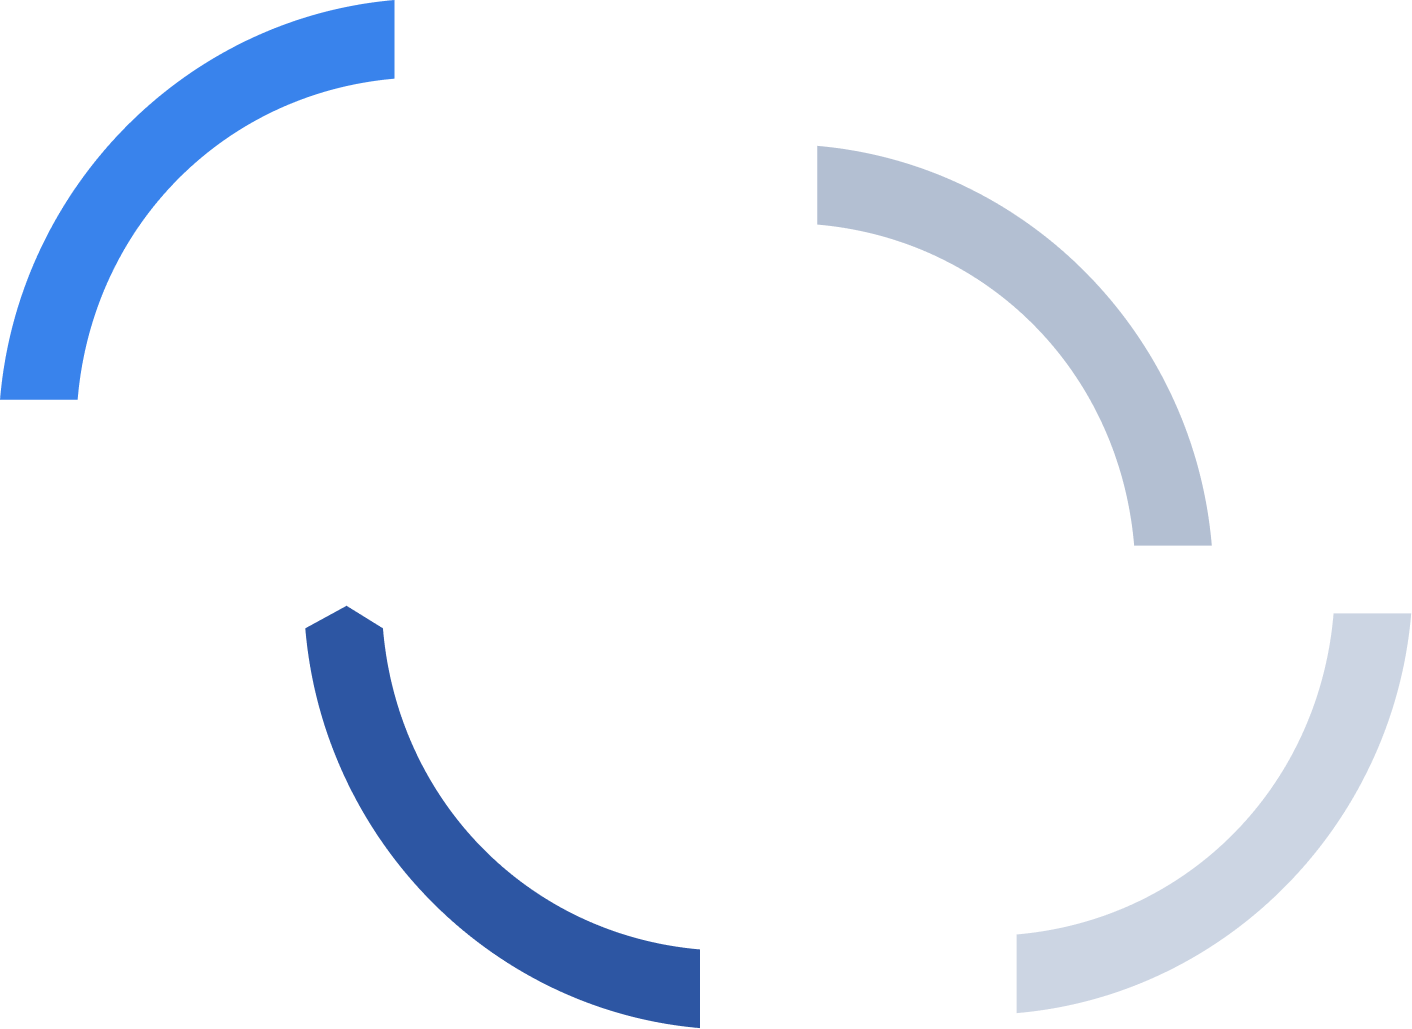
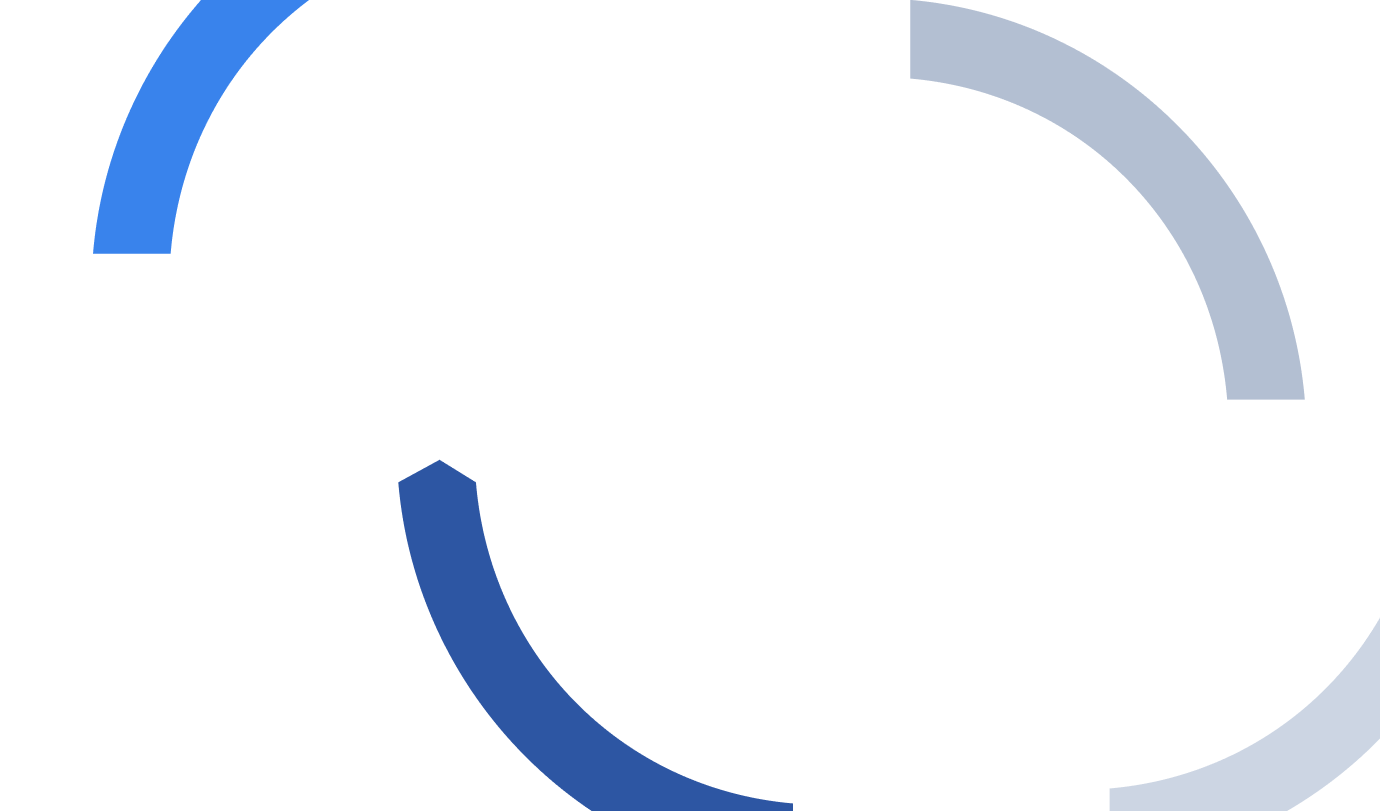
cta decor

diff --git a/src/html/views/home.html b/src/html/views/home.html
@@ -5,15 +5,27 @@
       title: "We Drive Change",
       text: "Lorem ipsum dolor sit amet, consectetur adipiscing elit, sed do eiusmod tempor incididunt ut labore et dolore magna aliqua. Ut enim ad minim veniam, exercitation ullamco laboris.",
       image: "img/banner__image.png",
+      btn: {
+        text: "Learn More",
+        class: "btn-primary",
+      },
       additionalClass: "banner--large" 
     }) %>
     <%= _.template(require('./../includes/quote.html').default)({
         text: "Our focus on collaboration, transparency, and excellence has been the cornerstone of our approach, leading to the development of best-in-class Mission Critical facilities. With a collective experience of over 500 years in Data Centres, our team is uniquely positioned to ensure certainty of delivery and the delivery of high-quality finished products.",
+        btn: {
+          text: "Learn More",
+          class: "btn-primary",
+        },
       }) %>
       <%= _.template(require('./../includes/solutions.html').default)({}) %>
       <%= _.template(require('./../includes/info.html').default)({
         title: "It’s our people and expertise that make a difference",
         text: "We bring the knowledge, skills and insights to engage and mobilise the stakeholders that matter, creating coalitions for impact.",
+        btn: {
+          text: "Learn More",
+          class: "btn-primary",
+        },
         image: "img/info__image.png",
         decor: "img/info__decor.png",
       }) %>
@@ -30,6 +42,11 @@
       <%= _.template(require('./../includes/cta.html').default)({
         title: "Talk to us about <br> your project",
         image: "img/cta__image.png",
+        decor: "img/cta__decor.png",
+        btn: {
+          text: "Get in Touch",
+          class: "btn-primary",
+        }
       }) %>
 </main>
 <%= _.template(require('./../includes/footer.html').default)(data) %>

diff --git a/src/html/views/career.html b/src/html/views/career.html
@@ -6,11 +6,19 @@
     text: "Lorem ipsum dolor sit amet, consectetur adipiscing elit, sed do eiusmod tempor incididunt ut labore et dolore magna aliqua. Ut enim ad minim veniam, exercitation ullamco laboris.",
     partners: true,
     image: "img/hero-banner__image.png",
+    btn: {
+      text: "Learn More",
+      class: "btn-primary",
+    },
     additionalClass: "banner--small" 
   }) %>
   
   <%= _.template(require('./../includes/quote.html').default)({
       text: "Whether you're a seasoned professional or just starting your career, we offer a diverse range of opportunities across the mission critical sector. Explore our current openings and discover how you can be a part of an extraordinary team.",
+      btn: {
+        text: "",
+        class: ""
+      },
     }) %>
     <%= _.template(require('./../includes/cover.html').default)({
       title: "Reasons to work with us",
@@ -22,7 +30,10 @@
     <%= _.template(require('./../includes/info.html').default)({
       title: "Our Culture",
       text: "We know that the key to our success lies in our people, and we are always looking for exceptional individuals to join us. We work hard to provide a supportive environment where you will be empowered and encouraged to reach your goals and feel valued for the contribution you are making.",
-      partners: true,
+      btn: {
+        text: "Learn More",
+        class: "btn-primary",
+      },
       image: "img/hero-info__image.png",
       decor: "img/hero-info__decor.png"
     }) %>

diff --git a/src/html/includes/quote.html b/src/html/includes/quote.html
@@ -3,26 +3,13 @@
     <div class="quote__content">
       <div class="quote__text h-content">
         <%if (typeof text !== 'undefined') {%>
-          <p><%=text%></p>
+        <p><%=text%></p>
         <%}%>
       </div>
       <div class="quote__btn">
-        <a class="btn btn-primary" href="#">Learn More</a>
+        <a href="#" class="btn <%=btn.class%>" target="_blank"><%=btn.text%></a>
       </div>
     </div>
   </div>
 </section>
-<!-- <section class="quote section" data-aos="fade-up" data-aos-duration="2000">
-  <div class="quote__container container">
-    <div class="quote__content">
-      <div class="quote__text h-content">
-        <p>
-          Whether you're a seasoned professional or just starting your career,
-          we offer a diverse range of opportunities across the mission critical
-          sector. Explore our current openings and discover how you can be a
-          part of an extraordinary team.
-        </p>
-      </div>
-    </div>
-  </div>
-</section> -->
+

diff --git a/src/scss/components/cta.scss b/src/scss/components/cta.scss
@@ -1,10 +1,10 @@
 .cta {
   &__container {
-    background-image: url(../img/cta__decor.png);
-    background-repeat: no-repeat;
-    background-size: contain;
-    background-position: 36%;
-    width: 100%;
+    // background-image: url(../img/cta__decor.png);
+    // background-repeat: no-repeat;
+    // background-size: contain;
+    // background-position: 36%;
+    // width: 100%;
     min-height: 811px;
     position: relative;
     width: 100%;
@@ -17,7 +17,7 @@
 
   &__content {
     margin-left: 93px;
-    width: 60%;
+    width: 42%;
   }
   &__text {
     & h1 {
@@ -34,12 +34,18 @@
     justify-content: left;
   }
   &__image {
+    z-index: 1;
     & img {
       object-fit: cover;
       top: 0;
       width: 100%;
       height: auto;
     }
+  }
+  &__decor {
+    position: absolute;
+    right: 0;
+    top: 0;
   }
 }
 

diff --git a/src/html/includes/cta.html b/src/html/includes/cta.html
@@ -9,13 +9,18 @@
         <h1><%=title%></h1>
       </div>
       <div class="cta__btn">
-        <a class="btn btn-primary" href="#">Get in Touch</a>
+        <a href="#" class="btn <%=btn.class%>" target="_blank"><%=btn.text%></a>
       </div>
     </div>
     <%if (typeof image !== 'undefined') {%>
     <div class="cta__image">
       <img src="<%=image%>" alt="" />
     </div>
-    <%}%>
+    <%}%>            
+    <% if (typeof decor !== 'undefined') { %>
+      <div class="cta__decor">
+        <img src="<%= decor %>" alt="" />
+      </div>
+    <% } %>
   </div>
 </section>

diff --git a/src/html/includes/banner.html b/src/html/includes/banner.html
@@ -3,7 +3,7 @@
   data-aos="fade-up"
   data-aos-duration="2000"
 >
-  <div class="banner__container container ">
+  <div class="banner__container container">
     <div class="banner__content">
       <div class="banner__text">
         <h1><%= title %></h1>
@@ -13,7 +13,7 @@
       </div>
 
       <div class="banner__btn">
-        <a class="btn btn-primary" href="#">Learn More</a>
+        <a href="#" class="btn <%=btn.class%>" target="_blank"><%=btn.text%></a>
       </div>
     </div>
     <% if (typeof image !== 'undefined') { %>

diff --git a/src/scss/components/info.scss b/src/scss/components/info.scss
@@ -28,20 +28,20 @@
     width: 50%;
     & img {
       width: 100%;
-
     }
   }
   &__decor {
     position: absolute;
     right: 0;
     top: 0;
+    z-index: 0;
   }
 }
 
 @media screen and (max-width: 768px) {
   .info__container {
     display: flex;
-    flex-direction: column-reverse; 
+    flex-direction: column-reverse;
     align-items: center;
     justify-content: center;
   }

diff --git a/src/html/includes/info.html b/src/html/includes/info.html
@@ -8,7 +8,7 @@
                 <%}%>
               </div>
               <div class="info__btn">
-                <a class="btn btn-primary" href="#">Learn More</a>
+                <a href="#" class="btn <%=btn.class%>" target="_blank"><%=btn.text%></a>
               </div>
             </div>
             <% if (typeof image !== 'undefined') { %>

diff --git a/src/scss/components/banner.scss b/src/scss/components/banner.scss
@@ -37,7 +37,6 @@
     position: relative;
     width: 100%;
     height: 100%;
-    // min-height: 530px;
     & img {
       position: absolute;
       right: 0;
